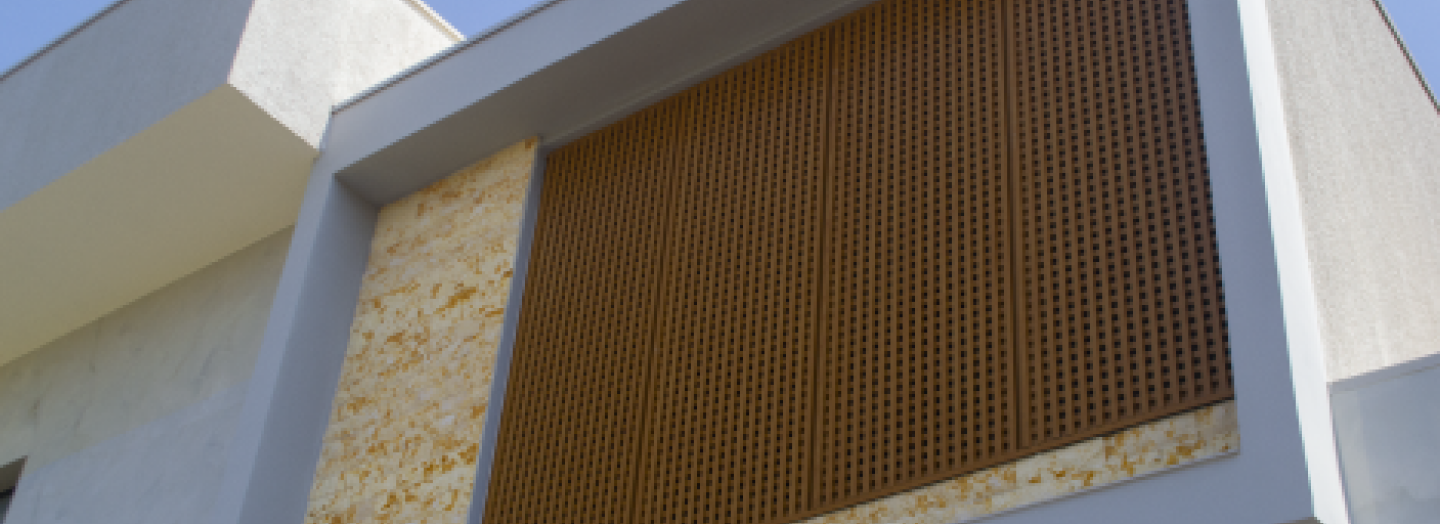
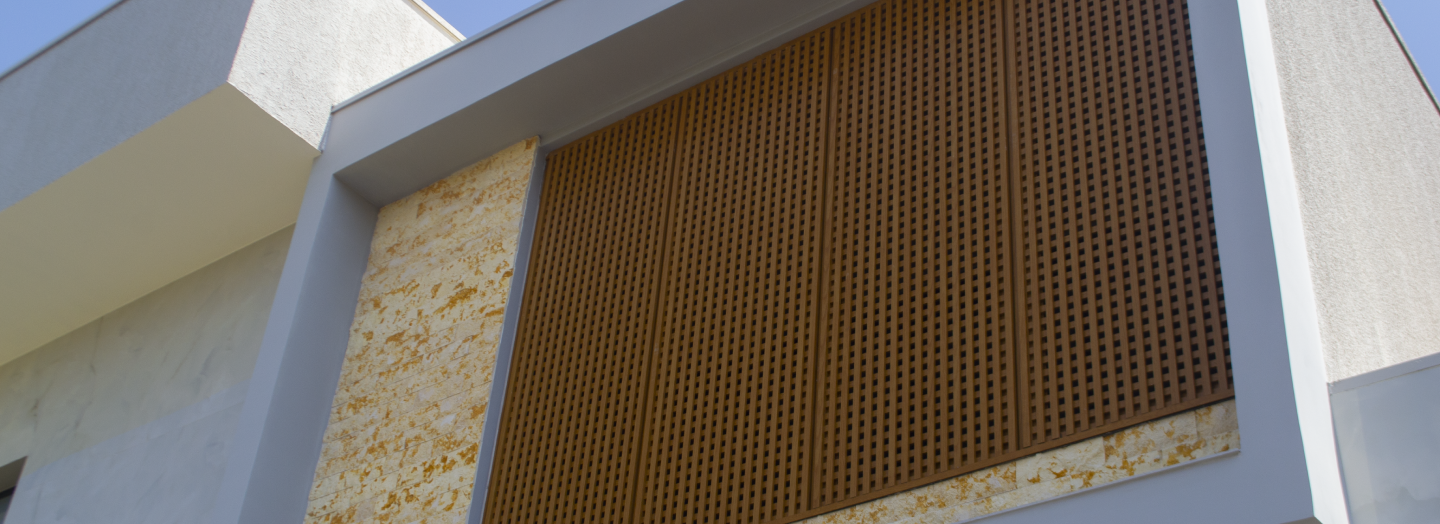
fotos_ok

diff --git a/index.html b/index.html
@@ -62,10 +62,10 @@
                 <div class="swiper-wrapper">
                     <!-- Slides -->
 
-                    <img class="swiper-slide" src="./assets/carrossel/carrossel_inicio_1.svg" loading="lazy">
-                    <img class="swiper-slide" src="./assets/carrossel/carrossel_inicio_2.svg" loading="lazy" alt="Edifício Comercial">
-                    <img class="swiper-slide" src="./assets/carrossel/carrossel_inicio_3.svg" loading="lazy">
-                    <img class="swiper-slide" src="./assets/carrossel/carrossel_inicio_4.svg" loading="lazy">
+                    <img class="swiper-slide" src="./assets/carrossel/carrossel_inicio_1.png" loading="lazy">
+                    <img class="swiper-slide" src="./assets/carrossel/carrossel_inicio_2.png" loading="lazy" alt="Edifício Comercial">
+                    <img class="swiper-slide" src="./assets/carrossel/carrossel_inicio_3.png" loading="lazy">
+                    <img class="swiper-slide" src="./assets/carrossel/carrossel_inicio_4.png" loading="lazy">
 
                 </div>
                 <!-- If we need pagination -->
